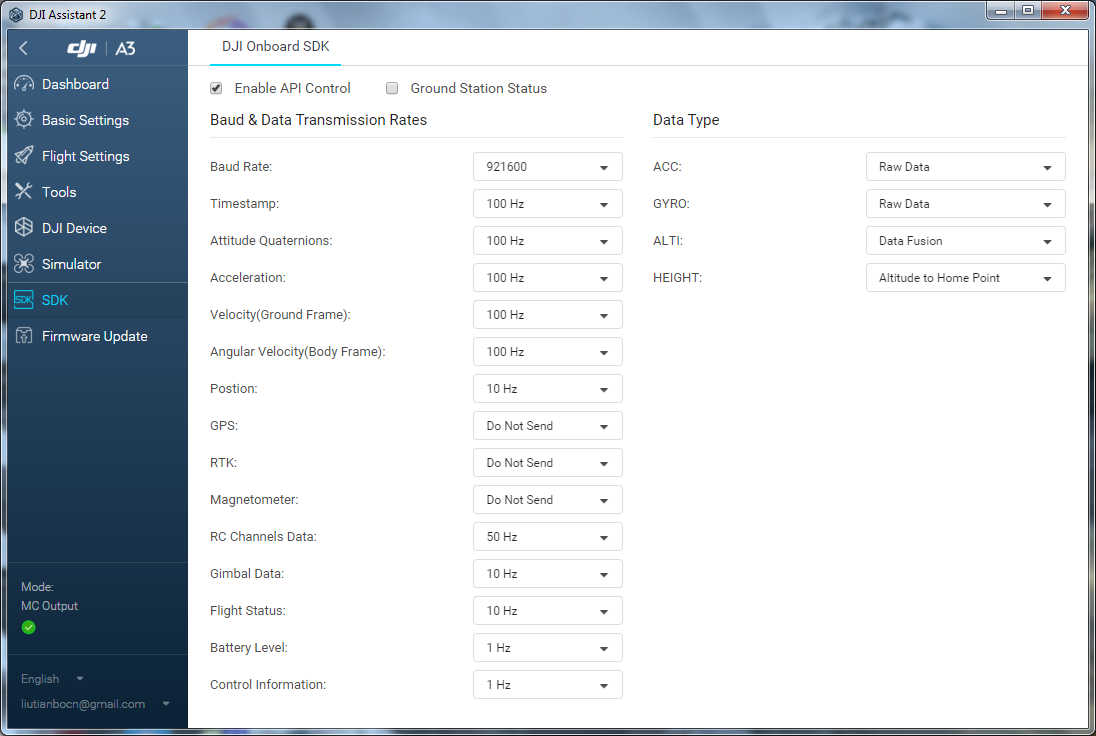
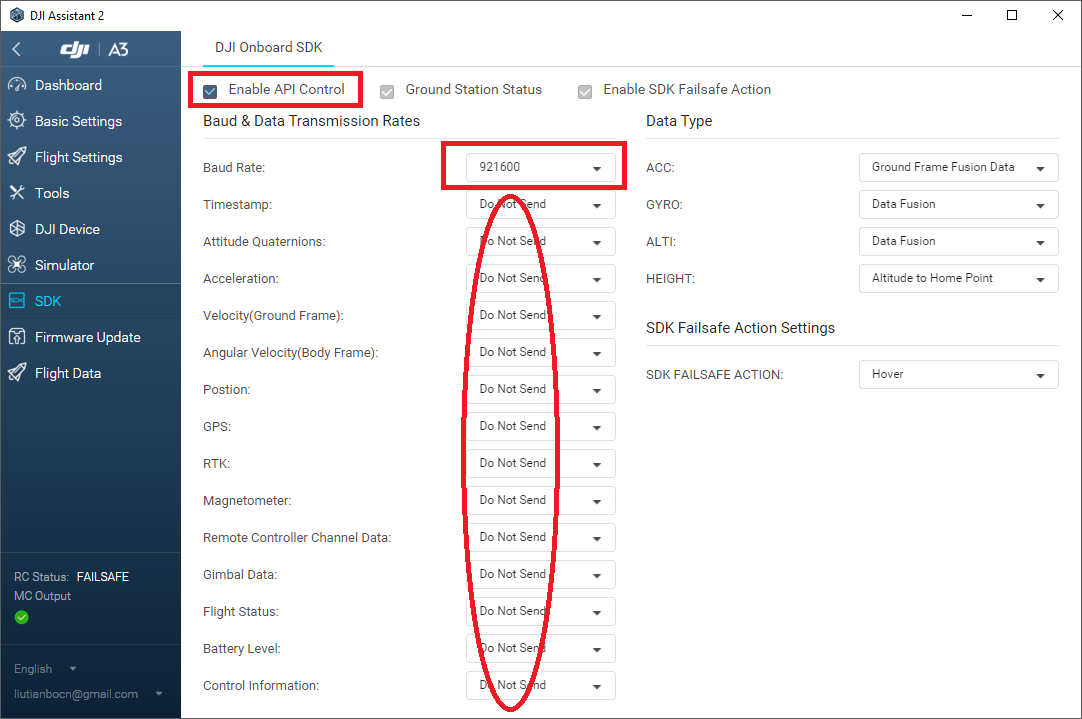
Update README.md; Add tutorial

diff --git a/README.md b/README.md
@@ -1,40 +1,60 @@
 ## A modified [TODO/OSDK(https://todo) ##
 
-This is a modified version of TODO, which uses standard ros message types, providing limited function of TODO.
+This is a modified version of TODO, which uses standard ros message types, providies limited function of TODO.
 
-### Usage ###
+### For Beginners, Please Follow [Step-by-Step Tutorial](docs/step_by_step_tutorial.md) ###
 
-* FindEigen.cmake from **ceres-solver** is used. Please modify it accordingly if you meet some problem about Eigen.
+### TLDR for Experts ###
 
-* Remember to pull the submodule OSDK, such as ```git submodule init && git submodule update```
+* FindEigen.cmake from **ceres-solver** is used. Please resolve it accordingly if you meet some problem about Eigen.
+
+* Remember to pull the submodule OSDK, such as ```git submodule init && git submodule update```, and follow instructions of [DJI-OSDK](https://github.com/HKUST-Aerial-Robotics/OSDK) to install it into the system
 
 * If you don't need mvBlueFOX synchronization, just [set ENABLE_DJIFOX to false](CMakeLists.txt#L22) to eliminate compile errors about mvBlueFOX drivers. If you need it, please install [the bluefox camera drivers](https://www.matrix-vision.com/USB2.0-single-board-camera-mvbluefox-mlc.html).
 
-* Follow instructions of [DJI-OSDK](https://github.com/HKUST-Aerial-Robotics/OSDK) to install it into the system
-
-* **launch/djiros.launch** and **launch/djifox.launch** will use environment variables to get APPID and ENCKEY. You can add your id and key in your launch file / set it to the environment / hardcode it in the source code.
-
-* Configure A3 SDK as below
-  ![A3 Configuration](docs/configuration.png)
+* **launch/djiros.launch** and **launch/djifox.launch** will use environment variables to get APPID and ENCKEY. You can add your id and key in your launch file / set it to the environment. For members of HKUST-Aerial-Robotics-Group, please see ```Dropbox/reading/code/uavteam/DJISDK_APP_KEY.txt``` for id and key.
 
 * Please pay attention to ttyUSB name and privilege. An example for udev-rule file is provided in [docs/99-ftdi.rules](docs/99-ftdi.rules). A tutorial can be found at http://hintshop.ludvig.co.nz/show/persistent-names-usb-serial-devices/
 
 ### ROS Interfaces ###
 
 #### Parameters ####
-* serial_name             [string] : Path to the serial port device (e.g. /dev/ttyUSB0)
-* baud_rate               [int]    : Baudrate for serial port
-* app_id                  [int]    : App Id for dji sdk
-* enc_key                 [string] : App Key for dji sdk
-* sensor_mode             [bool]   : No activation and control is needed, just output imu, rc, gps, ...
-* align_with_fmu          [bool]   : Use ticks from FMU/ ros::Time::now() when data is received.
-* gravity                 [double] : scale multiplied on accelerometer output
-* ctrl_cmd_stream_timeout [double] : timeout for judging if control command is streaming in or stopped
-* ctrl_cmd_wait_timeout   [double] : timeout for waiting for control command after switch into api mode
+```
+~serial_name             [string] : Path to the serial port device (e.g. /dev/ttyUSB0)
+~baud_rate               [int]    : Baudrate for serial port
+~app_id                  [int]    : App Id for dji sdk
+~enc_key                 [string] : App Key for dji sdk
+~sensor_mode             [bool]   : No activation and control is needed, just output imu, rc, gps, ...
+~align_with_fmu          [bool]   : Use ticks from FMU/ ros::Time::now() when data is received.
+~gravity                 [double] : scale multiplied on accelerometer output
+~ctrl_cmd_stream_timeout [double] : timeout for judging if control command is streaming in or stopped
+~ctrl_cmd_wait_timeout   [double] : timeout for waiting for control command after switch into api mode
+```
+
+#### Camera Parameters ####
+
+Please see [KumarRobotics/bluefox2](https://github.com/KumarRobotics/bluefox2) as a reference
 
 #### Topics ###
+
+Publishers:
+
+```
+ ~imu  : [sensor_msgs/IMU]              IMU message at 400 Hz, in the [ROS REP 103](http://www.ros.org/reps/rep-0103.html) frame definition.
+ ~rc   : [sensor_msgs/Joy]              RC joysticks at 50 Hz, remapped to [-1, +1]. See [include/djiros/DjiRos.h](include/djiros/DjiRos.h) for the direction.
+ ~velo : [geometry_msgs/Vector3Stamped] Velocity message in NED frame.
+ ~gps  : [sensor_msgs/NavSatFix]        GPS message.
+ [SYNC] ~image: [sensor_msgs/Image]     Synchronized images from camera driver.
+```
+
 * See the code and [official documents](https://developer.dji.com/onboard-sdk/documentation/) for published topics and their details.
-* Subscriber "~ctrl" for control the drone
+* For other messages, please modify the code.
+* Pay attention to the frame_id of the published topics which represent the frame. Frame definition can be seen in [include/djiros/DjiRos.h](include/djiros/DjiRos.h).
+
+Subscribers:
+```
+~ctrl: [sensor_msgs/Joy] For controlling the drone
+```
 <!-- * Subscriber "~gimbal_ctrl" and "~gimbal_speed_ctrl" for control the gimbal -->
 
 #### TODO ####
@@ -42,7 +62,3 @@ This is a modified version of TODO, which uses standard ros message types, provi
 * Remove backwards.cpp
 
 * Remove submodule when OSDK is released
-
-* Update screenshot
-
-* Add parameter explanations for bluefox

diff --git a/docs/step_by_step_tutorial.md b/docs/step_by_step_tutorial.md
@@ -1,0 +1,57 @@
+## Step by Step Tutorial to Use This Node with DJI A3 ##
+
+If you don't need IMU-BlueFOX Camera synchronization, you can safely skip steps marked by [SYNC].
+
+Please PR or post issues if something is not clear or make you confusing.
+
+### Hardware Preparation ###
+
+1. Connect A3/N3 (Flight controller and LED module), LightBridge 2 (Air system and Ground system, connected to DJI GO App with Internet access). Make sure that all the following parts are connected and work well. 
+
+![A3kit](a3kit.png)
+
+2. Power on all components, configurate A3 on [DJI Assistant 2](http://www.dji.com/a3/info#downloads) as below
+
+![Configuration](configuration.png)
+
+3. [SYNC] Configurate hardware synchronization channel on [DJI Assistant 2](http://www.dji.com/a3/info#downloads) as below
+
+![sync](sync.png)
+
+4. Link the USB-TTL module with A3 and [SYNC] hardware sync wire
+
+![connection](connection.png)
+
+### Software Installation ###
+
+1. Follow [DJI-Onboard-SDK-URL-TODO](http://todo) to install the onboard-sdk core lib into your system.
+
+2. In your catkin workspace, clone this repo: ```git clone https://github.com/groundmelon/djiros.git```.
+
+3. If you do not need mvBlueFOX synchronization, just **set ENABLE_DJIFOX to false** in [CMakeLists.txt:22](CMakeLists.txt#L22) to eliminate compile errors about mvBlueFOX drivers. 
+
+4. [SYNC] If you need mvBlueFOX synchronization, please install the [mvBlueFOX Camera Driver](https://www.matrix-vision.com/USB2.0-single-board-camera-mvbluefox-mlc.html).
+
+5. By default, the [launch files](launch/) will load environment variables for APPID and ENCKEY. You can set them in your environment, for example, 
+
+	```
+	echo "export DJIROS_APPID=1234567" >> ~/.bashrc
+	echo "export DJIROS_ENCKEY=xxxxxxxxxxxxxxxxxxxxxxxxxxxxxxxxxxx" >> ~/.bashrc
+	source ~/.bashrc
+	``` 
+
+	Alternatively, you can edit [launch/djiros.launch](launch/djiros.launch) or [launch/djifox.launch (with SYNC)](launch/djifox.launch), and fill in your APPID and ENCKEY in the parameter fields. 
+
+	For members of [HKUST-Aerial-Robotics-Group](https://uav.ust.hk), please see ```Dropbox/reading/code/uavteam/DJISDK_APP_KEY.txt``` for id and key. 
+
+6. If no sync is needed, it is advised to set ```align_with_fmu``` as ```false```.
+
+7. Remember to giant permission for operating the serial ports for your user. There are many methods, such as [add your user into group dialout](https://askubuntu.com/questions/373096/how-do-i-permanently-change-permissions-for-dev-ttys0), or follow [this tutorial](http://hintshop.ludvig.co.nz/show/persistent-names-usb-serial-devices/) to set mode as 0666 by udev. For the latter method, [an example rule file](docs/99-ftdi.rules) is provided.
+
+8. [SYNC] Edit [launch/djifox.launch](launch/djifox.launch), set your serial number of the mvBlueFOX camera in the field ```camera0/serial```. Other camera parameters can be set accordingly. Typically, ```fast_mode: false``` is for fps <= 25, and ```fast_mode: true``` is for 30 <= fps < 50.
+
+### Run the Node ###
+
+1. Run the node is very simple: ``` roslaunch djiros djiros.launch ``` or [SYNC] ``` roslaunch djiros djifox.launch ```
+
+2. If you see some printing of "NEW DEVICE", please make sure that your DJI GO has Internet access and try again and again for several times.
